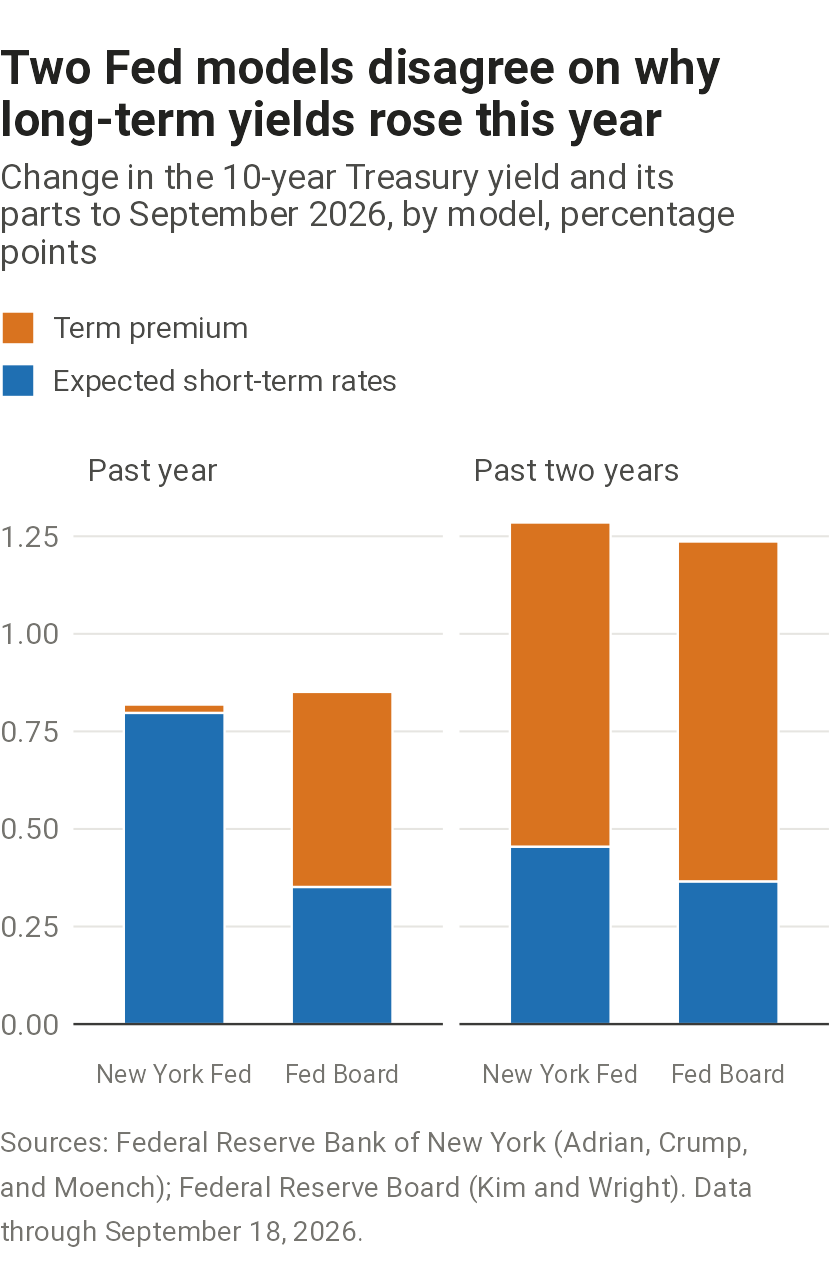
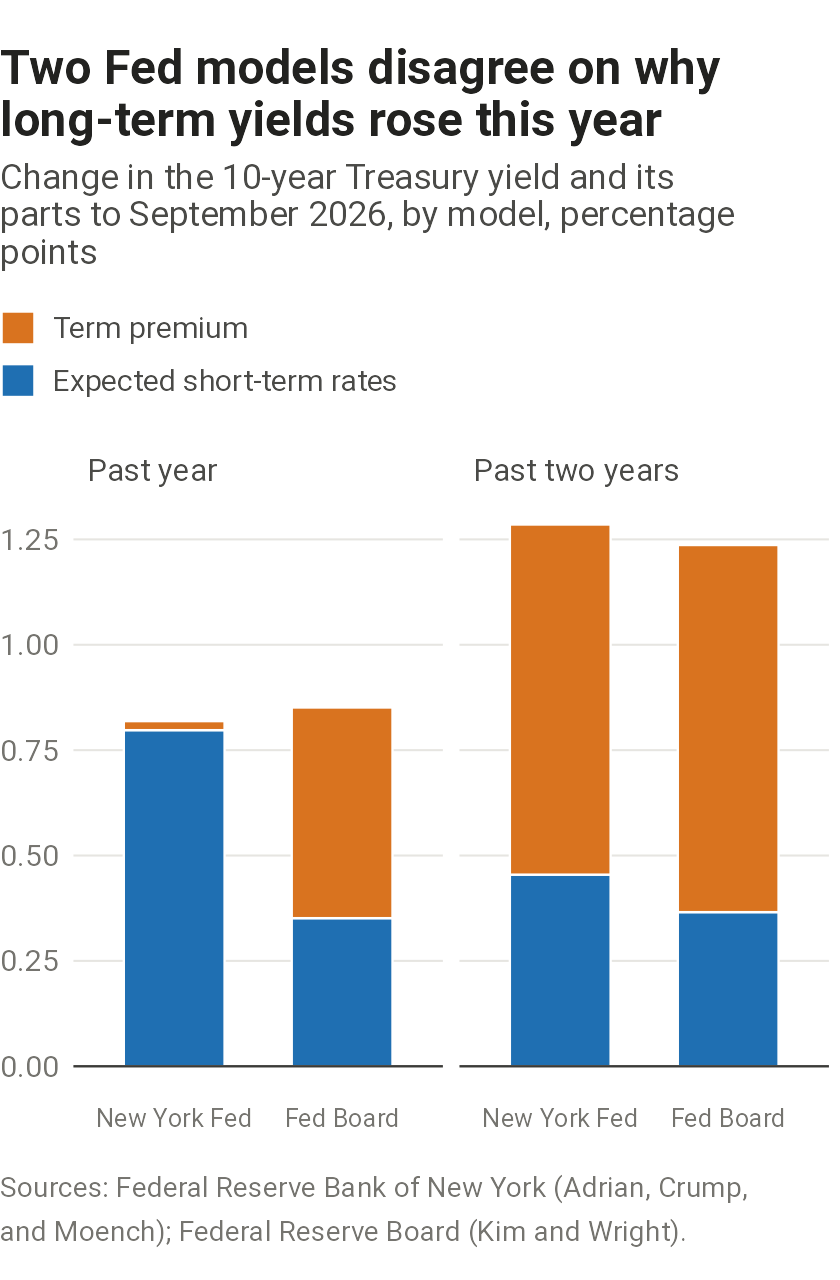
Record chart and writing preferences; drop the date from the term premium source line
Claude-Session: https://claude.ai/code/session_01C4kQtTHdakDNHHerQuEFwM

diff --git a/CLAUDE.md b/CLAUDE.md
@@ -129,9 +129,25 @@ Propose designs when we get there, but don't build these before the first chart 
 
 ## Writing style for anything published
 
-Plain, measured, declarative. No em dashes as punctuation for effect, no stacked lists of three for rhythm, no marketing language. Chart titles should be accurate before they're catchy.
+Plain, measured, declarative. No stacked lists of three for rhythm, no marketing language. Em dashes are fine for an aside, not for effect. Charts follow `STYLE.md`: no acronyms on a chart except ones every reader knows, such as GDP and AI, and notes define terms in plain words rather than with equations.
 
-Charts follow `STYLE.md`. In particular, no acronyms on a chart except ones every reader knows, such as GDP and AI, and notes define terms in plain words rather than with equations.
+Write like a staff economist briefing the Treasury secretary: high level, short, and cut hard.
+
+- **The paragraph above a chart** opens with the general point, then backs it up. Two to six sentences, each with one clear purpose and message. If a sentence is doing two jobs, split it or cut one.
+- **Be factual about what is measured.** Name things for what they are. If a category is broader than its label, such as "AI investment" that includes software spending unrelated to AI, name the components instead.
+- **Numbers in the text should be visible on the chart.** If a reader would wonder where a number comes from, show it on the chart or drop it. Keep precision consistent, and don't round a number up to make a point.
+- **Mention a range or alternative estimate only if it changes the story.** Otherwise keep it in the spec as a refresh check.
+- **Avoid words with two meanings in one paragraph**, such as "headline" for both a gross figure and GDP growth.
+- **Don't repeat on the chart what the chart already shows**, such as the data's end date in the image's source line. The release date goes in the notes below the chart.
+- **Notes below the chart are short definitions only.** If it matters, it goes in the paragraph.
+
+For charts:
+
+- **The title states the chart's message**, all of it: if the paragraph makes two points, the title carries both. Accurate before catchy.
+- **One chart that tells the whole story beats two that split it.** Never publish a standalone chart of a figure the text argues is misleading.
+- **Smooth the data when noise hides the story**, and use the same measure the text quotes, such as four-quarter averages.
+
+When I ask for options, give a recommendation. When I'm unsure, show me a preview rather than describing it.
 
 ## Vintages and revisions
 

diff --git a/STYLE.md b/STYLE.md
@@ -24,14 +24,14 @@ The image has four levels of text, and nothing else competes with them. Everythi
 - **No acronyms in anything a reader sees**: titles, labels, legends, notes. Spell out total factor productivity, not TFP. The exceptions are ones any reader knows, such as GDP and AI.
 - **Units go in the subtitle** and in any label that shows a value. No axis titles when the subtitle already gives the units.
 - **Legend labels are short**, two or three words. Anything a short label leaves out goes in the notes.
-- **The source line in the image is short**: the data's provider and release, and the original analysis by author and outlet. An image saved or shared on its own still says where it came from.
+- **The source line in the image is short**: the data's provider and the original analysis by author and outlet, so an image saved or shared on its own still says where it came from. No data end date when the chart already shows it; that goes in the notes on the page.
 - Sentence case everywhere. No rotated axis labels. Drop trailing zeros from numbers.
 
 ## Text around the chart
 
 Write for a busy senior reader, like a staff economist briefing the Treasury secretary. Each chart's section on the page runs: heading, one paragraph, chart, definitions, source. Text on the page stays readable at any screen size, unlike text drawn into the image.
 
-- **One paragraph above the chart, two to six sentences.** The first sentence is the finding. The next gives the context a reader needs to judge its size, such as what the whole of GDP growth or business investment was. The rest is the supporting numbers. Anything a reader must know to read the chart correctly goes here, not in the notes.
+- **One paragraph above the chart, two to six sentences.** The first sentence is the general point. The rest backs it up, one message per sentence. Numbers quoted should be ones a reader can find on the chart. Anything a reader must know to read the chart correctly goes here, not in the notes.
 - `build.R` writes the paragraph with `write_chart_lead()` so its numbers update on refresh. Wording that could stop being true on a refresh, such as "nearly all," is recorded in the spec to check.
 - **Notes below the chart are one-line definitions of the legend items**, in legend order, written as "**Label:** definition." No caveats, methods, or analysis; those go in the paragraph or the spec.
 - **The source line is short**: the providers, the data's end date, and a link to the original analysis. Smaller and lighter than the notes. It ends with the data download link.
